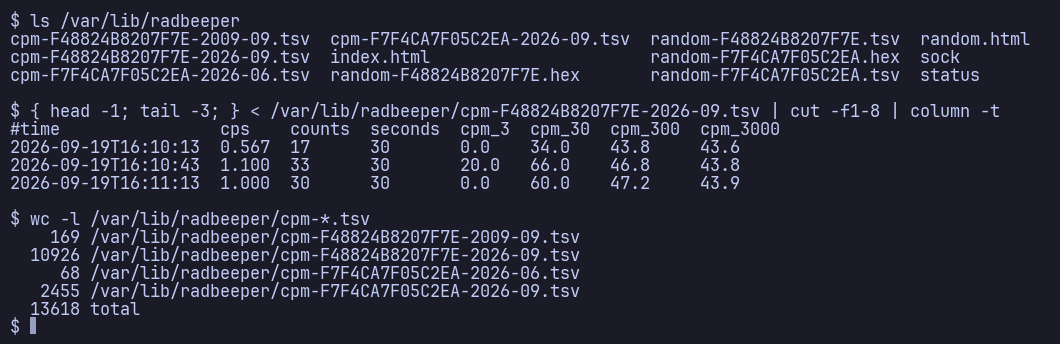
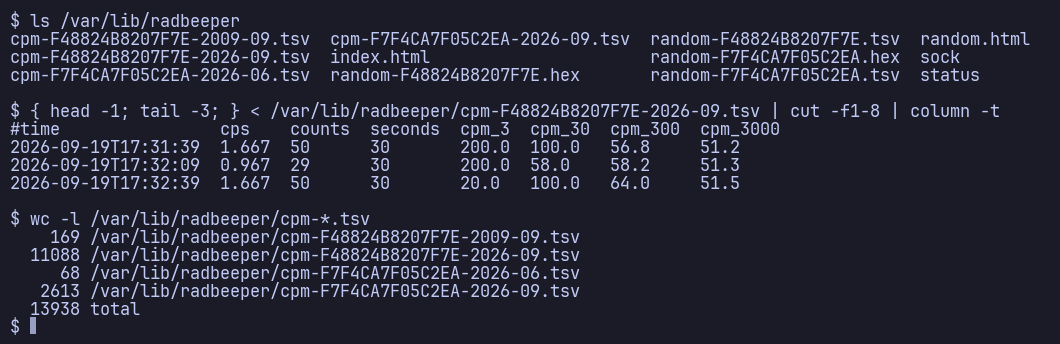
radbeeper 0.4.2

diff --git a/random.html b/random.html
@@ -69,7 +69,7 @@ code{background:var(--card);padding:.1rem .3rem;border-radius:4px}
 .note{color:var(--dim);font-size:.85rem;max-width:68ch}
 </style></head><body><main>
 <h1>Where the random comes from</h1>
-<p class="sub">radbeeper 0.4.1 &middot; counter F48824B8207F7E &middot; 9 emissions &middot; generated 2026-09-19 16:54</p>
+<p class="sub">radbeeper 0.4.2 &middot; counter F48824B8207F7E &middot; 9 emissions &middot; generated 2026-09-19 17:32</p>
 <p class="lede">The moment a nucleus decays is not determined by anything, which makes a Geiger&ndash;M&uuml;ller counter the textbook hardware entropy source. What is <em>not</em> textbook is how much randomness survives the journey down a serial cable, and that is what this page is for. <a href="monitor.html">Back to the monitor</a>.</p>
 <h2>What the serial link gives you</h2>
 <p class="note">Everything below follows from one line of the protocol. <code>&lt;HEARTBEAT1&gt;&gt;</code> makes the counter send <b>two bytes once per second</b>, and those two bytes are a count: how many arrivals landed in that second. The device drives the clock, so there is no drift between its second and ours &mdash; but there is also nothing finer. <b>One integer per second is the entire raw material.</b></p>
@@ -125,5 +125,5 @@ code{background:var(--card);padding:.1rem .3rem;border-radius:4px}
 </tbody></table></div>
 <p class="note">Rows marked <b>not kept</b> were written by a build that recorded <code>time.monotonic()</code> &mdash; seconds since this machine booted &mdash; where the wall clock belonged, so they dated themselves to 1969. The digest used the same number, so those lines still recompute; it was the label that was wrong, and it is fixed. Those rows also stopped collecting on the Poisson figure, which is why their measured column falls short of 256 &mdash; they are the evidence, not a warning.</p>
 <p class="note"><b>Treat this as a good physical entropy source, not a certified one.</b> It has not been through a statistical test battery, and 256 bits of measured min-entropy is a claim about the samples that were seen, not a proof about the output.</p>
-<footer>Generated by <code>radbeeper export</code> 0.4.1. <a href="monitor.html">Back to the monitor</a>. &middot; MIT License &mdash; Copyright (c) 2026 Paul Richeson</footer>
+<footer>Generated by <code>radbeeper export</code> 0.4.2. <a href="monitor.html">Back to the monitor</a>. &middot; MIT License &mdash; Copyright (c) 2026 Paul Richeson</footer>
 </main></body></html>

diff --git a/index.html b/index.html
@@ -71,7 +71,7 @@ footer a{color:var(--dim)}
 {"@context":"https://schema.org","@type":"SoftwareSourceCode",
 "name":"RadBeeper","description":"RadBeeper reads a GQ GMC-320 Plus Geiger-Muller counter over USB serial on Linux: a terminal monitor and a Wayland window, five averaging windows at once, an interleaved cascade of counts per second, and tab-separated data logging you can publish. Built in Rust for Copal Linux, an Alpine distillation.",
 "url":"https://vonglurt.github.io/radbeeper/","codeRepository":"https://github.com/vonglurt/radbeeper","programmingLanguage":"Rust","license":
-"https://opensource.org/licenses/MIT","version":"0.4.1",
+"https://opensource.org/licenses/MIT","version":"0.4.2",
 "runtimePlatform":"Linux","operatingSystem":"Linux, Alpine Linux, Copal Linux",
 "applicationCategory":"Science","keywords":"geiger counter linux, GMC-320 Plus, GQ GMC, geiger muller counter USB, radiation monitor Linux, tty serial geiger counter, counts per minute logging, radiation data logging, Alpine Linux geiger, Copal Linux, Hyprland Wayland radiation monitor, rust geiger counter, CPM to uSv/h",
 "author":{"@type":"Person","name":"Paul Richeson"},
@@ -136,7 +136,7 @@ machine</strong> this project's own screenshots come from.</p></div>
 <div class="wrap"><main id="radbeeper">
 <h1 id="radbeeper">RadBeeper</h1>
 <p><strong>A GQ GMC-320 Plus Geiger-Muller counter on the desk, read from Alpine Linux — and from <a href="https://github.com/vonglurt/copal">Copal</a>, its distillation.</strong></p>
-<p>MIT · <code>0.4.1</code> · <code>cargo install radbeeper</code> · one dependency, and it is <code>libc</code></p>
+<p>MIT · <code>0.4.2</code> · <code>cargo install radbeeper</code> · one dependency, and it is <code>libc</code></p>
 <p><strong><a href="https://vonglurt.github.io/radbeeper/">vonglurt.github.io/radbeeper</a></strong> — this page, the lab reports, and <a href="https://vonglurt.github.io/radbeeper/monitor.html">a live counter's report</a> built from the logs in this repository.</p>
 <p><img src="https://raw.githubusercontent.com/vonglurt/radbeeper/main/docs/screenshots/gui.gif" alt="radbeeper-gui: two counters, in real time" loading="lazy"></p>
 <p><strong>Twenty-four seconds of two counters, in real time</strong>, attached to radbeeper service daemon. GUI visuals like analogue dial meters, five averaging windows with the precision of each, a strip of counts that compresses as it ages, three spectra of FFT.</p>

diff --git a/monitor.html b/monitor.html
@@ -62,7 +62,7 @@ footer{color:var(--dim);font-size:.82rem;margin-top:3rem;border-top:1px solid va
 code{background:var(--card);padding:.1rem .3rem;border-radius:4px}
 </style></head><body><main>
 <h1>Radiation monitor</h1>
-<p class="sub">A GQ GMC Geiger-Muller counter on the desk &middot; generated 2026-09-19 16:54 by radbeeper 0.4.1 &middot; tube factor 151.5 CPM per &micro;Sv/h</p>
+<p class="sub">A GQ GMC Geiger-Muller counter on the desk &middot; generated 2026-09-19 17:32 by radbeeper 0.4.2 &middot; tube factor 151.5 CPM per &micro;Sv/h</p>
 <p class="lede">A <strong>GQ GMC-320 Plus</strong> Geiger&ndash;M&uuml;ller counter, plugged into a machine running <strong>Alpine Linux</strong> &mdash; or <strong><a href="https://github.com/vonglurt/copal">Copal</a></strong>, its distillation, which carries this as a stage and installs the <code>linux-lts</code> kernel package the counter needs to be seen at all &mdash; as a USB serial device, here shared into a virtual machine over USB pass-through. RadBeeper reads the counter, logs it to tab-separated files, and <strong>this page is regenerated from those files by a GitHub Action</strong> on every push. The whole of it is forkable: copy your own logs into <code>logs/</code> and you get a page like this one. <a href="https://github.com/vonglurt/radbeeper">Source and instructions</a>. <a href="random.html">Where the random comes from</a>.</p>
 <h2>Counter F48824B8207F7E</h2>
 <div class="cards">

diff --git a/README.md b/README.md
@@ -3,7 +3,7 @@
 **A GQ GMC-320 Plus Geiger-Muller counter on the desk, read from Alpine Linux —
 and from [Copal](https://github.com/vonglurt/copal), its distillation.**
 
-MIT · `0.4.1` · `cargo install radbeeper` · one dependency, and it is `libc`
+MIT · `0.4.2` · `cargo install radbeeper` · one dependency, and it is `libc`
 
 **[vonglurt.github.io/radbeeper](https://vonglurt.github.io/radbeeper/)** — this
 page, the lab reports, and [a live counter's
